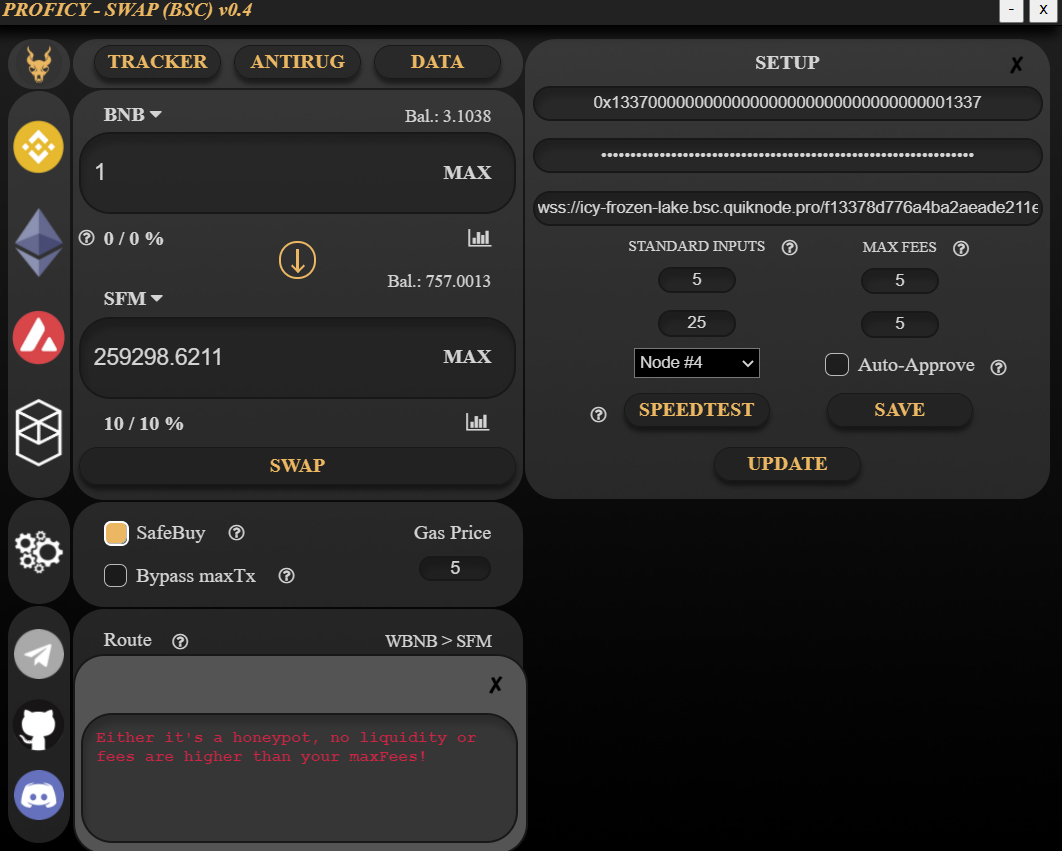
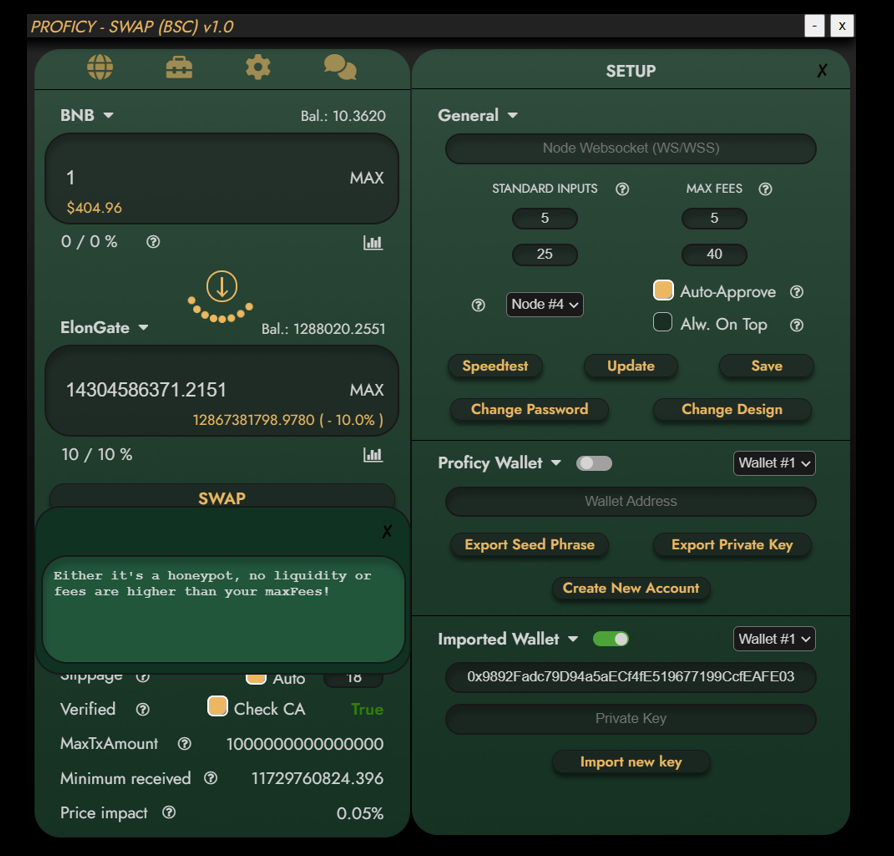
add v1 update images

diff --git a/README.md b/README.md
@@ -12,6 +12,7 @@ We at PROFICY took every available measure to prevent any malicious activity cou
 ## TABLE OF CONTENTS
 [**SWAP**](#swap)  
 [**SETTINGS**](#settings)  
+[**SUPPLEMENTAL TOOLS**](#supplemental-tools)  
 [**ADVANCED USAGE**](#advanced-usage)  
 [**CHANGELOG**](#changelog)  
 
@@ -21,17 +22,22 @@ We at PROFICY took every available measure to prevent any malicious activity cou
 ![](pictures/swap.png)  
 
 1.	**Chain Selection**: Easily switch between chains by clicking on these icons. BSC is currently supported, but ETH, AVAX, and FTM are actively in development and will be added soon.
-2.	**Swap Setup** Click this icon to open the [SETUP](#setup) window.
-3.	**Tracker (COMING SOON)**: This button opens the Proficy Token Tracker. This will allow you to view current token holdings accumulated through use of ProficySwap, with features like sell initial at X, automatically sell at X, stop-loss, and manually selling a percentage of holdings. [Click here](https://www.proficy.io/whitepaper.pdf#page=5) for more info.
-4.	**Antirug (COMING SOON)** Proven to be effective in [proficy.io](https://www.proficy.io) applications, when enabled, Proficy Antirug will automatically frontrun malicious activity from devs like pulling liquidity or changing max transaction amounts and sells before these changes can take effect.
-5.	**Data (COMING SOON)** Click this button to view supplemental information like the Proficy Token Analyzer to view token-related information and charts. [Click here](https://www.proficy.io/whitepaper.pdf#page=5) for more info.
-6.	**Tax Info**: Buy Tax / Sell Tax for each token displayed. This info updates in real time so you can easily watch and buy or sell if taxes are lowered.
-7. **General Swap Info**: Standard swap information is displayed here such as balance and price updates of the tokens selected. Click on the token symbol to choose a new token. Click on the chart icons to open DEX Screener charts for the selected token. Clicking the SWAP button will immediately send a transaction through a Proficy private node (or your own private node if you choose) immediately without the need for confirmation. This means a transaction should go through immediately without having to confirm and wait like you have to do in other swaps.
-8. **Swap Settings**: ProficySwap offers the following customized settings:  
+2. [**Supplemental Tools**](#supplemental-tools): Proficy offers the following supplemental tools included with the swap:
+- [**Portfolio**](#portfolio): View your entire portfolio with the ability to favorite, delete, filter out honeypots, and a "sell dust" feature to sell all tokens within a given range. 
+- [**Transfer**](#transfer): Transfer your tokens to external wallets or between newly created wallets in ProficySwap.
+- [**Token Data**](#token-data): View token info such as holders, market cap, liquidity lock information, user trades, and top holders.
+- **Charts** (Coming soon): view token charts directly in ProficySwap.
+3.	**Swap Setup** Click this icon to open the [SETUP](#setup) window.
+4.	**Socials**: Learn more about Proficy at https://proficy.io or join us on the following platforms:  
+- Telegram: https://t.me/ProficyNetworkPortal
+- Discord: https://discord.gg/Ske27Qnmmn 
+5.	**Tax Info**: Buy Tax / Sell Tax for each token displayed. This info updates in real time so you can easily watch and buy or sell if taxes are lowered. Note: you must have an amount in the input for the tax to update automatically.
+6. **General Swap Info**: Standard swap information is displayed here such as balance and price updates of the tokens selected. Click on the token symbol to choose a new token. Click on the chart icons to open DEX Screener charts for the selected token. Clicking the SWAP button will immediately send a transaction through a Proficy private node (or your own private node if you choose) immediately without the need for confirmation. This means a transaction should go through immediately without having to confirm and wait like you have to do in other swaps.
+7. **Swap Settings**: ProficySwap offers the following customized settings:  
 - **SafeBuy**: If checked, [SafeBuy](#safebuy) will automatically protect you from buying honeypots, antibot, or high tax tokens. 
 - **Bypass maxTx**: If this is checked, the swap will bypass maxTxAmount and do multiple buy/sell calls in one single Tx (be aware, every call costs gas).
 - **Gas Price**: Easily change your gas price (gwei) here without having to click through multiple windows like you would have to in MetaMask. 
-9. **Swap Info**: The following swap information is displayed here:
+8. **Swap Info**: The following swap information is displayed here:
 - **Route**: The best possible route that results in the most tokens received.
 - **Slippage**: Price change you are willing to accept while your Tx is processed.
 - **Verified**: If checked, ProficySwap will automatically check if the "to" (bottom) token is verified on the chain explorer (e.g., BscScan or Etherscan). If the scan website is slow or under mainteance, uncheck this checkbox (be aware, bypassing maxTx is not possible then).
@@ -42,16 +48,19 @@ We at PROFICY took every available measure to prevent any malicious activity cou
 ## SETUP
 
 ![](pictures/setup.png)  
-1. **Wallet and Private Key Inputs**: Enter your wallet and private key here. You can input your private key only and ProficySwap will automatically detect your wallet address. Your private key will be encrypted and safely stored locally on your computer. Note that your private key is different from your seed phrase. Follow these instructions to export your private key for use in the ProficySwap app: https://metamask.zendesk.com/hc/en-us/articles/360015289632-How-to-Export-an-Account-Private-Key.
-2. **Custom Websocket URL**: If you host your own private node, enter the websocket URL here. Otherwise leave this blank and use a Proficy hosted private node.
-3. **Standard Inputs**: Standard inputs the app will load on startup. Top input is gwei and bottom input is slippage.
-4. **Max Fees**: The maximum txFees you are willing to accept on a trade if SafeBuy is active. Top input is buy fee and bottom input is sell fee.  
-5. **Node Selection**: Choose a Proficy node or select your own node in this dropdown.
-6. **Auto-Approve**: If auto-approve is active, it will silently approve a token you just bought.  
-7. **Speedtest**: The [SPEEDTEST](#speedtest) will find the best endpoint for you.
-8. **Save**: Save your inputs here. Wallet and Private Key are the only required inputs.
-9. **Update**: Check to see if you have the most recent version of ProficySwap and automatically download the latest version if not. 
-
+1. **Custom Websocket URL**: If you host your own private node, enter the websocket URL here. Otherwise leave this blank and use a Proficy hosted private node.
+2. **Standard Inputs**: Standard inputs the app will load on startup. Top input is gwei and bottom input is slippage.
+3. **Max Fees**: The maximum txFees you are willing to accept on a trade if SafeBuy is active. Top input is buy fee and bottom input is sell fee.  
+4. **Node Selection**: Choose one of Proficy node's hosted around the globe or select your own node in this dropdown.
+5.  **Auto-Approve/Always on Top**: If auto-approve is active, it will silently approve a token you just bought which will allow you to immediately sell if needed. Always On Top will allow you to keep ProficySwap pinned to the top so you can always have the swap open while you're viewing charts or browsing the web.
+6. **Settings Buttons**
+- **Speedtest**: The [SPEEDTEST](#speedtest) will find the best endpoint for you.
+- **Update**: Click this to see if your current version of ProficySwap is up-to-date. If not, the latest version will automatically start downloading to your default Downloads folder.
+- **Save**: Save your current swap settings.
+- **Change Password**: Change your current password that is used to logged into the app. It will be automatically encrypted.  
+- [**Change Design**](#change-design): Configure your background colors to anything you desire.  
+7. **Proficy Wallet**: Create a new wallet with the ability to export the seed phrase and private key.
+8. **Imported Wallet**: Import a wallet here. You can input your private key only and ProficySwap will automatically detect your wallet address. Your private key will be encrypted and safely stored locally on your computer. Note that your private key is different from your seed phrase. Follow these instructions to export your private key for use in the ProficySwap app: https://metamask.zendesk.com/hc/en-us/articles/360015289632-How-to-Export-an-Account-Private-Key.
 
 ## ADVANCED USAGE
 The following features are examples of advanced ways to use ProficySwap.
